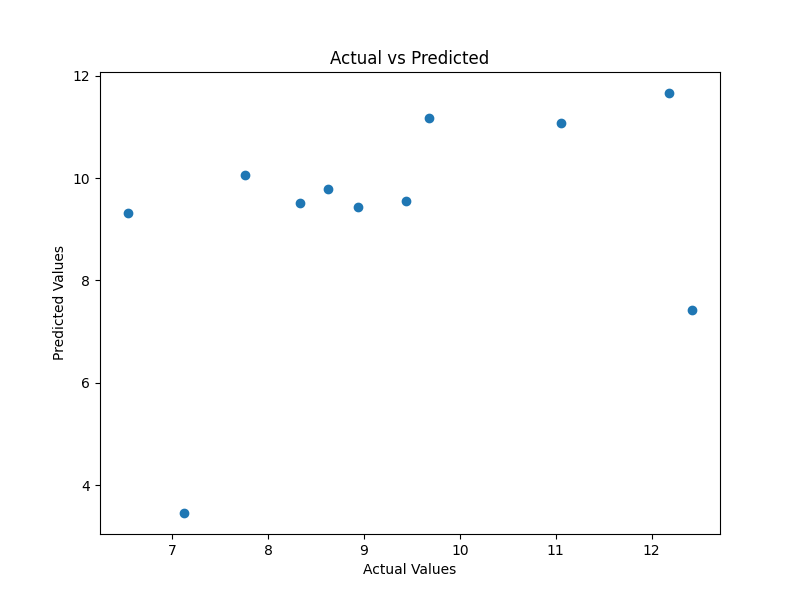
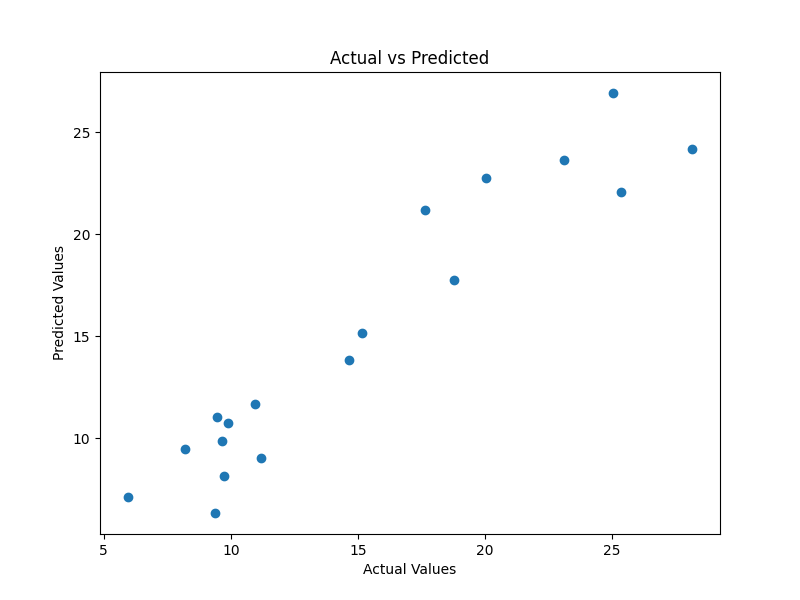
Implement RandomForestRegressor, compare against LinearRegression, generate feature importance plot, perform residual analysis, and select the best-performing model.
- compare_models.py created
- Linear Regression benchmark
- Random Forest model implemented
- Metrics comparison completed
- Feature importance analysis completed
- Residual comparison completed
 - Random Forest selected as best model

diff --git a/w8_weather_prediction_model/src/compare_models.py b/w8_weather_prediction_model/src/compare_models.py
@@ -1,0 +1,368 @@
+# W8 - MODEL COMPARISON SCRIPT
+# Purpose: Compare Linear Regression vs Random Forest Regressor
+#
+# Outputs:
+# - MAE
+# - RMSE
+# - R² Score
+# - Model Comparison Plot
+# - Feature Importance Plot
+# - Residual Comparison Plot
+# ----------------------------------
+
+import pandas as pd
+import matplotlib.pyplot as plt
+
+from sklearn.model_selection import train_test_split
+from sklearn.linear_model import LinearRegression
+from sklearn.ensemble import RandomForestRegressor
+
+from sklearn.metrics import (
+    mean_absolute_error,
+    mean_squared_error,
+    r2_score
+)
+
+from config import (
+    DATA_PATH,
+    TARGET_COLUMN,
+    RANDOM_STATE,
+    TEST_SIZE
+)
+
+# -----------------------------------
+# Load Dataset
+# -----------------------------------
+
+print("Loading dataset...")
+
+df = pd.read_parquet(DATA_PATH)
+
+print("\nDataset Shape:")
+print(df.shape)
+
+print("\nDate Range:")
+print(df["date"].min())
+print(df["date"].max())
+
+print("\nFirst 5 Rows:")
+print(df.head())
+
+# -----------------------------------
+# Prepare Features & Target
+# -----------------------------------
+
+print("\nPreparing dataset...")
+
+df = df.dropna()
+
+X = df.drop(
+    columns=[
+        TARGET_COLUMN,
+        "date"
+    ]
+)
+
+y = df[TARGET_COLUMN]
+
+print("\nFeature Shape:")
+print(X.shape)
+
+print("\nTarget Shape:")
+print(y.shape)
+
+# -----------------------------------
+# Train/Test Split
+# -----------------------------------
+
+X_train, X_test, y_train, y_test = train_test_split(
+    X,
+    y,
+    test_size=TEST_SIZE,
+    random_state=RANDOM_STATE
+)
+
+print("\nTrain/Test Split Complete")
+
+print("X_train Shape:", X_train.shape)
+print("X_test Shape :", X_test.shape)
+
+print("y_train Shape:", y_train.shape)
+print("y_test Shape :", y_test.shape)
+
+# -----------------------------------
+# Train Linear Regression
+# -----------------------------------
+
+print("\nTraining Linear Regression Model...")
+
+linear_model = LinearRegression()
+
+linear_model.fit(
+    X_train,
+    y_train
+)
+
+linear_predictions = linear_model.predict(
+    X_test
+)
+
+print("Linear Regression Training Complete")
+
+# -----------------------------------
+# Train Random Forest
+# -----------------------------------
+
+print("\nTraining Random Forest Model...")
+
+rf_model = RandomForestRegressor(
+    n_estimators=100,
+    max_depth=5,
+    random_state=RANDOM_STATE
+)
+
+rf_model.fit(
+    X_train,
+    y_train
+)
+
+rf_predictions = rf_model.predict(
+    X_test
+)
+
+print("Random Forest Training Complete")
+
+# -----------------------------------
+# Evaluation Function
+# -----------------------------------
+
+def evaluate_model(
+    model_name,
+    y_true,
+    predictions
+):
+
+    mae = mean_absolute_error(
+        y_true,
+        predictions
+    )
+
+    mse = mean_squared_error(
+        y_true,
+        predictions
+    )
+
+    rmse = mse ** 0.5
+
+    r2 = r2_score(
+        y_true,
+        predictions
+    )
+
+    print("\n" + "=" * 50)
+    print(model_name)
+    print("=" * 50)
+
+    print(f"MAE  : {mae:.2f}")
+    print(f"RMSE : {rmse:.2f}")
+    print(f"R²   : {r2:.2f}")
+
+    return mae, rmse, r2
+
+# -----------------------------------
+# Evaluate Linear Regression
+# -----------------------------------
+
+linear_metrics = evaluate_model(
+    "Linear Regression",
+    y_test,
+    linear_predictions
+)
+
+# -----------------------------------
+# Evaluate Random Forest
+# -----------------------------------
+
+rf_metrics = evaluate_model(
+    "Random Forest",
+    y_test,
+    rf_predictions
+)
+
+# -----------------------------------
+# Model Comparison Table
+# -----------------------------------
+
+comparison_df = pd.DataFrame({
+    "Model": [
+        "Linear Regression",
+        "Random Forest"
+    ],
+    "MAE": [
+        linear_metrics[0],
+        rf_metrics[0]
+    ],
+    "RMSE": [
+        linear_metrics[1],
+        rf_metrics[1]
+    ],
+    "R2": [
+        linear_metrics[2],
+        rf_metrics[2]
+    ]
+})
+
+print("\nModel Comparison")
+print(comparison_df)
+
+# -----------------------------------
+# Save Model Comparison Plot
+# -----------------------------------
+
+plt.figure(figsize=(8, 6))
+
+plt.bar(
+    comparison_df["Model"],
+    comparison_df["R2"]
+)
+
+plt.ylabel("R² Score")
+plt.title("Model Comparison")
+
+plt.tight_layout()
+
+plt.savefig(
+    "figures/model_comparison.png"
+)
+
+plt.close()
+
+print("\nSaved: figures/model_comparison.png")
+
+# -----------------------------------
+# Feature Importance Analysis
+# -----------------------------------
+
+feature_importance = pd.DataFrame({
+    "Feature": X.columns,
+    "Importance": rf_model.feature_importances_
+})
+
+feature_importance = feature_importance.sort_values(
+    by="Importance",
+    ascending=False
+)
+
+print("\nTop 10 Most Important Features")
+print(
+    feature_importance.head(10)
+)
+
+# -----------------------------------
+# Save Feature Importance Plot
+# -----------------------------------
+
+top_features = feature_importance.head(10)
+
+plt.figure(figsize=(10, 6))
+
+plt.barh(
+    top_features["Feature"],
+    top_features["Importance"]
+)
+
+plt.xlabel("Importance")
+plt.title("Top 10 Feature Importance")
+
+plt.gca().invert_yaxis()
+
+plt.tight_layout()
+
+plt.savefig(
+    "figures/feature_importance.png"
+)
+
+plt.close()
+
+print("Saved: figures/feature_importance.png")
+
+# -----------------------------------
+# Residual Analysis
+# -----------------------------------
+
+linear_residuals = (
+    y_test -
+    linear_predictions
+)
+
+rf_residuals = (
+    y_test -
+    rf_predictions
+)
+
+# -----------------------------------
+# Save Residual Comparison Plot
+# -----------------------------------
+
+plt.figure(figsize=(8, 6))
+
+plt.hist(
+    linear_residuals,
+    bins=15,
+    alpha=0.5,
+    label="Linear Regression"
+)
+
+plt.hist(
+    rf_residuals,
+    bins=15,
+    alpha=0.5,
+    label="Random Forest"
+)
+
+plt.legend()
+
+plt.xlabel("Residual Error")
+plt.ylabel("Frequency")
+
+plt.title(
+    "Residual Comparison"
+)
+
+plt.tight_layout()
+
+plt.savefig(
+    "figures/residual_comparison.png"
+)
+
+plt.close()
+
+print("Saved: figures/residual_comparison.png")
+
+# -----------------------------------
+# Select Best Model
+# -----------------------------------
+
+print("\nBest Model Selection")
+
+if rf_metrics[2] > linear_metrics[2]:
+
+    print("\nSelected Model: Random Forest")
+
+    print(
+        f"R² improved from "
+        f"{linear_metrics[2]:.2f} "
+        f"to "
+        f"{rf_metrics[2]:.2f}"
+    )
+
+else:
+
+    print("\nSelected Model: Linear Regression")
+
+    print(
+        f"R² remained higher at "
+        f"{linear_metrics[2]:.2f}"
+    )
+
+print("\nModel comparison completed successfully.")

diff --git a/w8_weather_prediction_model/src/config.py b/w8_weather_prediction_model/src/config.py
@@ -7,7 +7,8 @@
 # This file defines: dataset locations, target variable, train/test split settings, random seed, model save path
 
 # Path to engineered parquet dataset
-DATA_PATH = "data/raw/w7_features_final.parquet"
+# Path to engineered parquet dataset
+DATA_PATH = "../w7_feature_engineering/data/processed/w7_features_final.parquet"
 
 # Target column to predict
 TARGET_COLUMN = "target_temp_next_day"
